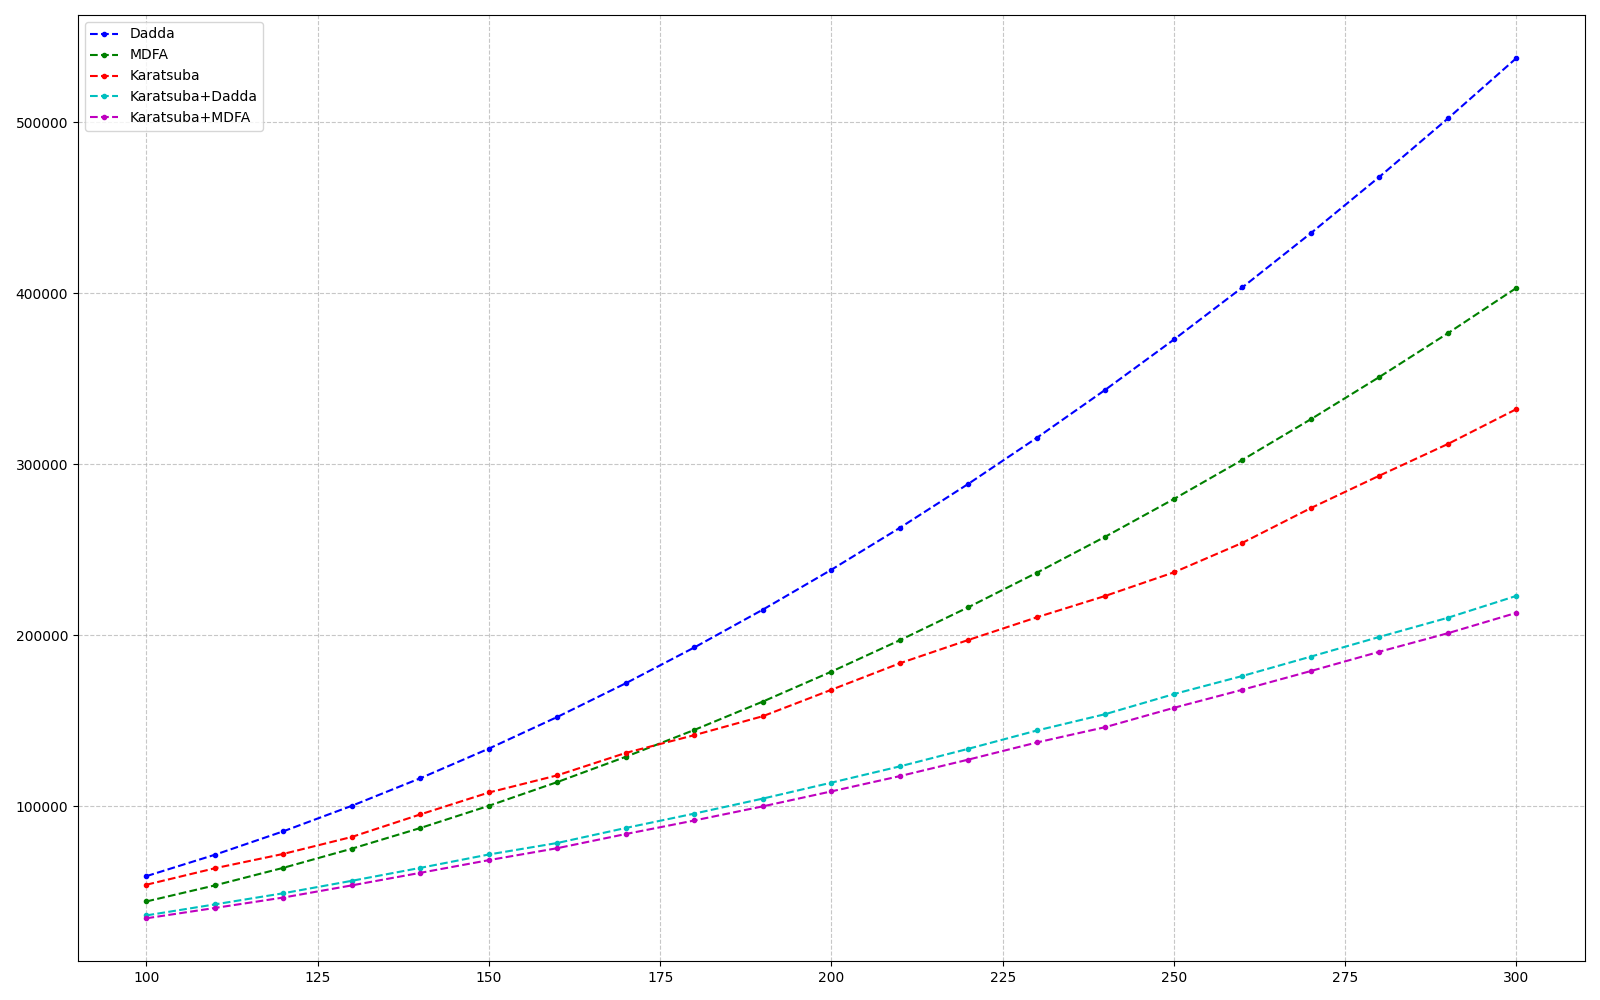
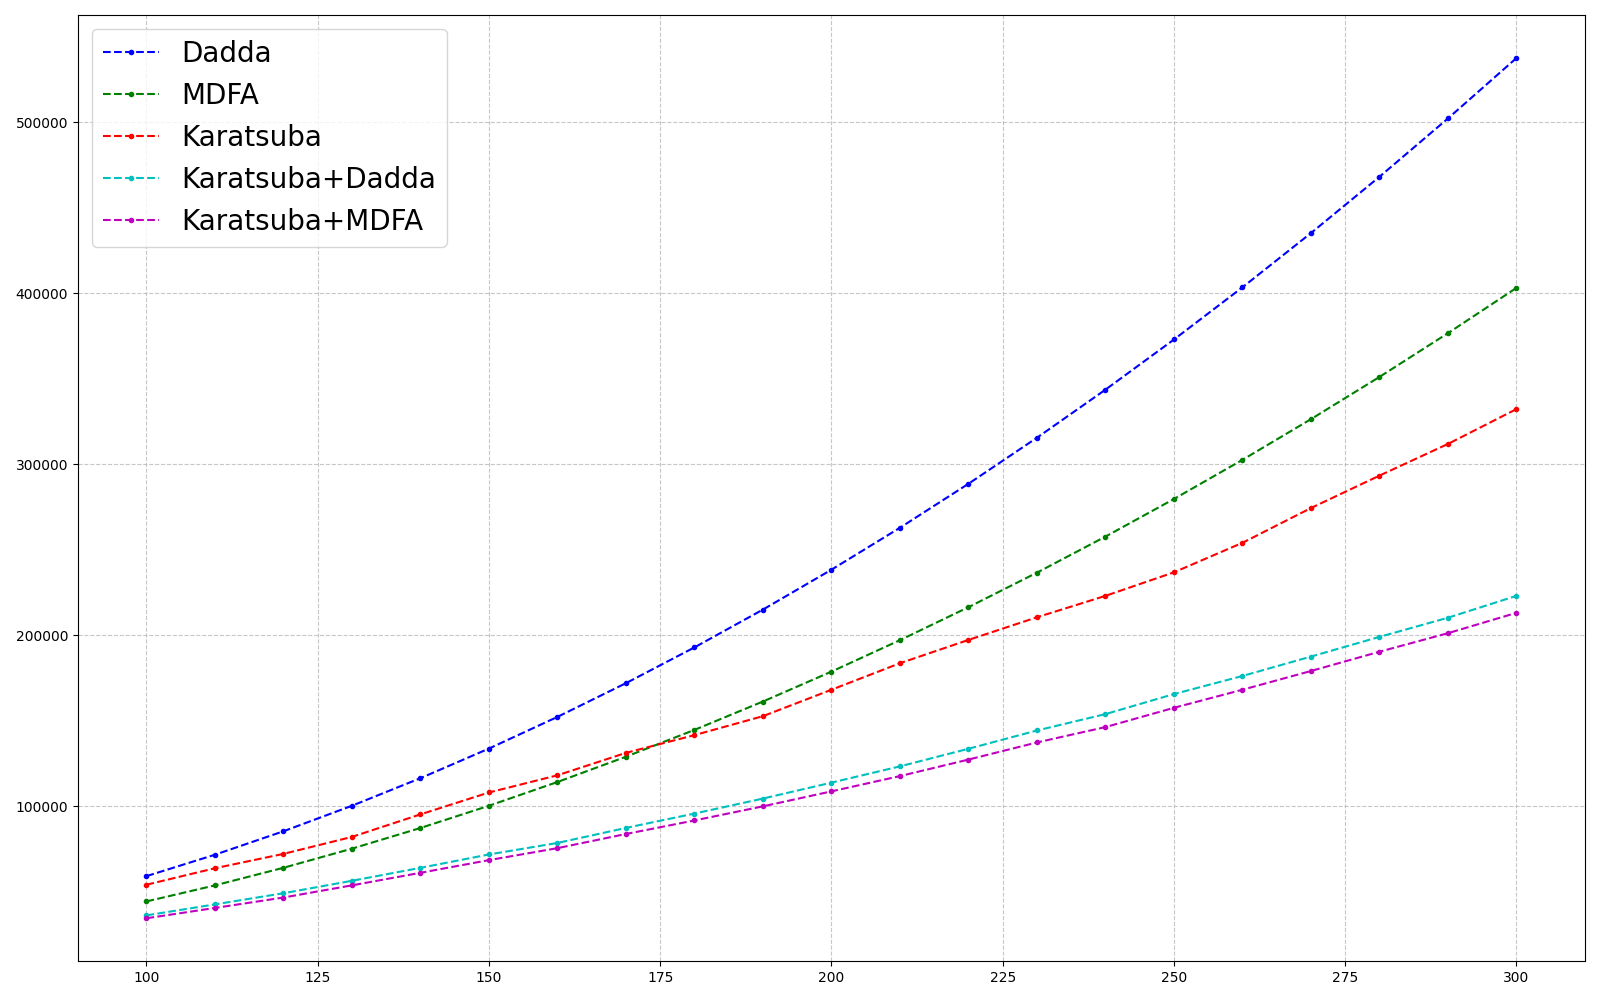
Polish the paper

Changed region(s): [[0.0625, 0.031, 0.2812, 0.248]]

diff --git a/multipliers.tex b/multipliers.tex
@@ -22,6 +22,8 @@
 \DeclareMathOperator{\MULT}{MULT}
 \DeclareMathOperator{\BA}{BA}
 \DeclareMathOperator{\MDFA}{MDFA}
+\DeclareMathOperator{\INC}{INC}
+\DeclareMathOperator{\size}{size}
 
 \usepackage{newfloat}
 \usepackage{listings}
@@ -78,7 +80,7 @@
     of~$n$~bits or~multiplying two $n$-bit integers),
     this leads to~$10\%$ improvement.
 
-    We~complement our theoretical result by~an~open source implementation
+    We~complement our theoretical result by~an~open-source implementation
     of~generators producing circuits for bit addition and multiplication.
     The generators allow one to~produce the corresponding circuits
     in~two lines of~code and to~compare them to~existing designs.
@@ -728,6 +730,7 @@ In~this section, we~prove a~new upper bound $4.5-2m$ for the circuit size
 of~bit addition. For regimes where $m$~is small compared to~$n$, this~is
 better than $5n-3m$ by~about $10\%$. This applies to~$\MULT_n$ and $\SUM_n$.
 \begin{theorem}
+	\label{theorem:main}
     For any vector $s \in \mathbb{Z}_{\ge 0}^n$,
     \[\operatorname{size}(\BA_n^s) \le 4.5n-2m.\]
 \end{theorem}
@@ -792,6 +795,9 @@ See Figure~\ref{figure:shifting} for an~example.
     non-degenerate case where $m \le n$. To~prove the induction step,
     denote by~$l$ the number of~bits on~the least significance layer and consider the following seven cases. (In~fact, the first three cases are special cases of~the last three cases, but we~believe that the presentation is~cleaner when they are stated
     as~separate cases.)
+    In~each of~the seven cases below, we~shift and proceed by~induction.
+    It~is not difficult to~see that we~always get a~non-degenerate significance
+    vector (where $m \le n$). 
 
     \begin{enumerate}
         \item $l=1$. In~this case, we~just shift.
@@ -1188,9 +1194,91 @@ See Figure~\ref{figure:shifting} for an~example.
 \end{proof}
 
 
+\section{Lower Bounds and Limitations}
+The upper bound $\size(\BA_n^s) \le 5n-3m$ holds for any vector~$s$, but 
+in~many scenarios it~is loose. For example, for the function
+\[\ADD_n=\BA_{2n}^{0,\dotsc,n-1,0,\dotsc,n-1},\]
+this upper bounds turns into $5\cdot 2n-3(n+1)=7n-3$,
+whereas $\size(\ADD_n)=5n-3$. Interestingly, the term $3m$ in~the upper bound $5n-3m$ cannot be~increased: for any constant $\alpha > 3$, there exists 
+a~vector~$s$ such that $\size(\BA_n^s) \ge 5n-\alpha m-O(1)$. 
+One example of~such a~vector is~$s=(0,0,1,\dotsc,n-1)$. The corresponding function $\BA_n^s$ adds a~bit to an~$n$-bit number. It~is not difficult to~see that it~can be~computed using $n$~Half Adders (see Figure~\ref{figure:addingbit}), hence its circuit size is~at~most~$2n$. Below, we~show that this straightforward circuit is~optimal (up~to an~additive constant). It~also shows that it~is
+impossible to~improve our upper bound $4.5n-2m$ to $4.5n-\beta m$ for $\beta > 2.5$.
+
+\begin{figure}
+	\begin{center}
+		\begin{tikzpicture}
+			%\draw[help lines] (0, 0) grid (6, 4);
+			\foreach \i in {0, ..., 6} {
+				\node[input] (x\i) at (\i, 3) {$x_{\i}$};
+				\node[gate] (and\i) at (\i, 2.25) {$\land$};
+				\node[gate] (xor\i) at (\i, 1.5) {$\oplus$};
+				\node[input] (y\i) at (\i, 0.74) {$y_{\i}$};
+				\draw[->] (xor\i) -- (y\i);
+				\draw[->] (x\i) -- (and\i);
+				\path (x\i) edge[->, draw, bend right] (xor\i);
+			}
+			\foreach \i in {0,...,5} {
+				\tikzmath{\j=int(\i+1);}
+				\draw[->] (and\i) -- (and\j);
+				\draw[->] (and\i) -- (xor\j);
+			}
+			
+			\node[input] (t) at (-0.75, 2.25) {$t$};
+			\node[input] (y7) at (6.75, 2.25) {$y_7$};
+			\draw[->] (t) -- (and0);
+			\draw[->] (and6) -- (y7);
+		\end{tikzpicture}
+	\end{center}
+	\caption{One can add a~bit~$t$ to a~$7$-bit integer $x_0\dotsb x_7$ (to~get 
+		an~$8$-bit integer $y_0\dotsb y_7$) using $14$~gates. A~straightforward 
+		generalization of~this construction ensures that $\size(\BA_n^{0,0,1,\dotsc, n-1}) \le 2n$.}
+	\label{figure:addingbit}
+\end{figure}
+
+\begin{theorem}
+	\label{theorem:lowerbound}
+	\[\size(\BA_n^{0,0,1,\dotsc,n-1}) \ge 2n-O(1).\]
+\end{theorem}
+\begin{proof}
+	Assume that a~bit to~be added is~equal to~one (clearly, this only makes the function easier to~compute). In~other words,
+	we~consider the \emph{increment} function $\INC_n \colon \{0,1\}^n \to \{0,1\}^{n+1}$. Thus, $\INC_n(x_0, \dotsc, x_{n-1})=(y_0, \dotsc, y_n)$ such that
+	\[1+\sum_{i=0}^{n-1}2^ix_i=\sum_{i=0}^n2^iy_i.\]
+	It~is not difficult to~write down explicit formulas for all output bits of~$\INC_n$. For example, for $n=5$, they are expressed as~follows:
+	\begin{align*}
+		y_0 &= 1 \oplus x_0\\
+		y_1 &= x_0 \oplus x_1\\
+		y_2 &= x_0x_1 \oplus x_2\\
+		y_3 &= x_0x_1x_2 \oplus x_3\\
+		y_4 &= x_0x_1x_2x_3 \oplus x_4\\
+		y_5 &= x_0x_1x_2x_3x_4\\
+	\end{align*}
+	
+	
+	We~prove that $\size(\INC_n) \ge 2n-2$ by~induction on~$n$.
+	The base case $n=1$ is~clear. For the induction step, take an~optimal circuit computing $\INC_n$ and consider its (topologically) first gate~$A(x_i, x_j)$.
+	
+	Now, if~both the variables $x_i$~and~$x_j$ had out-degree one, the whole circuit would depend on~$x_i$ and~$x_j$ through the gate~$A$ only. This would mean that there are two different pairs of~constant $(a_i, a_j), (b_i, b_j) \in \{0,1\}^2$ such that $A(a_i, a_j)=A(b_i, b_j)$. This, in~turn, would mean that the circuit does not distinguish between assignments
+	\[x_i \gets a_i,\, x_j \gets a_j \,\text{ and }\, x_i \gets b_i,\, x_j \gets b_j.\]
+	But such a~circuit cannot compute the function $\INC_n$ as~$\INC_n$ clearly distinguishes all four different assignments to~$x_i$ and~$x_j$.
+	
+	Thus, assume that, say, $x_i$ feeds at~least two gates. Then, assign $x_i \gets 1$ and simplify the circuit. During the simplification, the gates fed by~$x_i$ are eliminated. Also, the resulting circuit computes $\INC_{n-1}$ and hence, by~the induction hypothesis, contains at~least $2(n-1)-2=2n-4$ gates. Thus, the original circuit has size at~least $2+2n-4=2n-2$.
+	
+	To~see that the simplified circuit computes $\INC_{n-1}$, it~is instructive 
+	to~get back to~the previous toy example where $n=5$. Say, we assign $x_2 \gets 1$. Then, the outputs are simplified as~follows:
+	\begin{align*}
+		y_0 &= 1 \oplus x_0\\
+		y_1 &= x_0 \oplus x_1\\
+		y_2 &= x_0x_1 \oplus 1\\
+		y_3 &= x_0x_1 \oplus x_3\\
+		y_4 &= x_0x_1x_3 \oplus x_4\\
+		y_5 &= x_0x_1x_3x_4\\
+	\end{align*}
+	It~is now easy to~see that $(y_0,y_1,y_3,y_4,y_5)=\INC_4(x_0, x_1, x_3, x_4)$.
+\end{proof}
+
 
 \section{Implementation and Experimental Evaluation}
-We~implemented efficient generators of~our new circuits in~the \texttt{Cirbo} framework~\cite{DBLP:journals/corr/abs-2412-14933}. 
+We~implemented efficient generators of~our new circuits in~the \texttt{Cirbo} open-source framework~\cite{DBLP:conf/aaai/AverkovBEGKKKLL25}. 
 To~generate a~circuit computing $\BA_n^s$, one passes the vector~$s$. Listing~\ref{listing:first} shows how to~use the generator
 to~produce an~efficient circuit computing $\SUM_{31}$ in~a~single line of~code.
 When the circuit is~generated, one can use a~wide range of~\texttt{Cirbo} methods to~analyze and manipulate the circuit.
@@ -1273,44 +1361,82 @@ MDFA & 8559 & 19439 & 34719 & 54399 & 78479 & 106959 & 139839 & 177119 & 218799 
 Karatsuba & 11789 & 22982 & 37836 & 54173 & 72209 & 95319 & 118152 & 141653 & 168200 & 197328 & 223093 & 254123 & 293405 & 332314 \\
 Karatsuba, Dadda& 7522 & 15312 & 24770 & 36244 & 49200 & 64046 & 78598 & 95784 & 113870 & 133678 & 153948 & 176246 & 199102 & 223098 \\
 Karatsuba, MDFA& 7198 & 14489 & 23771 & 34556 & 46690 & 61140 & 75556 & 91749 & 108760 & 127358 & 146349 & 168198 & 190427 & 213175 \\
-\bottomrule
+Improvement  & 4.3\%  & 5.4\%  & 4.0\%  & 4.7\%  & 5.1\%  & 4.5\%  & 3.9\%  & 4.2\%  & 4.5\%  & 4.7\%  & 4.9\%  & 4.6\%  & 4.4\%  & 4.4\%\\ \bottomrule
 		\end{tabular}
 	\end{center}
-	\caption{Comparing the size of~circuits for $\MULT_n$. The first multiplier, Dadda, computes the sum of~the partial product using Full Adders and Half Adders. The second one, MDFA, sums~up the partial products using MDFA blocks.
-	The third one, Karatsuba, makes three recursive calls and recurses all the way down to~4-bit numbers. The last two multipliers use Karatsuba algorithm, but switch to~Dadda or~MDFA multipliers when $n$~becomes smaller than~$20$.}
+	\caption{Comparing the size of~circuits for $\MULT_n$. The first multiplier, Dadda, computes the sum of~the partial products using Full Adders and Half Adders. The second one, MDFA, sums~up the partial products using MDFA blocks.
+	The third one, Karatsuba, makes three recursive calls and recurses all the way down to~4-bit numbers. The fourth and fifth multipliers use Karatsuba algorithm, but switch to~Dadda or~MDFA multipliers when $n$~becomes smaller than~$20$. The last row shows size improvement of~the fifth multiplier over the fourth one.}
 	\label{table:multiplication}
 \end{table*}
 
-\begin{figure}
-	\begin{center}
-		\includegraphics[width=\linewidth]{images/plot40_100_10}\\[2mm]
-		\includegraphics[width=\linewidth]{images/plot100_300_10}
-	\end{center}
-	\caption{Comparing the size of~five circuit designs for $\MULT_n$, for $40 \le n \le 100$ (top) and $100 \le n \le 300$ (bottom).}
+%\begin{figure}
+%	\begin{center}
+%		\includegraphics[width=\linewidth]{images/plot40_100_10}\\[2mm]
+%		\includegraphics[width=\linewidth]{images/plot100_300_10}
+%	\end{center}
+%	\caption{Comparing the size of~five circuit designs for $\MULT_n$, for $40 \le n \le 100$ (top) and $100 \le n \le 300$ (bottom).}
+%	\label{figure:multiplication}
+%\end{figure}
+
+\begin{figure*}
+	\includegraphics[width=\linewidth]{images/plot40_300_10}
+	\caption{Comparing the size of~five circuit designs for $\MULT_n$, for $40 \le n \le 300$.}
 	\label{figure:multiplication}
-\end{figure}
+\end{figure*}
 
 
 
 
 \section{Conclusion and Further Directions}
-
 In this paper, we~presented smaller circuits for bit addition.
 In~many practically relevant scenarios, the described circuits
 are about 10\% smaller than the known circuits composed
 out~of Half Adders and Full Adders.
 Also, we~implemented generators that allow one
 to~produce the corresponding circuits using a~single line of~code
-via the \texttt{Cirbo} package~\cite{DBLP:journals/corr/abs-2412-14933}.
+via the \texttt{Cirbo} open-source package~\cite{DBLP:conf/aaai/AverkovBEGKKKLL25}.
 
-The next natural step would~be to~optimize the depth of~the presented circuits.
+\subsection{Better Size Upper Bounds}
+It~would be~interesting to~improve our upper bound $4.5n-2m$ to~$4.5n-2.5m$
+(note that improving the constant~$2$ to~something larger than $2.5$~is provably impossible due to~Theorem~\ref{theorem:lowerbound}).
+For some vectors~$s$, our new circuits (generated by~the method described in~the proof of~Theorem~\ref{theorem:main}) for $\BA_n^s$ have size close to~$4.5n-2m$, so their size is~larger than $4.5n-2.5m$. However, in~all such cases it~is not difficult to~adjust the method of~adding the bits so~that the size of~the resulting circuit is~at~most $4.5n-2.5m$. One such example is 
+\[s=\left(0,0,0,0,1,1,2,2,\dotsc,\frac{n-2}{2}, \frac{n-2}{2}\right).\]
+\begin{center}
+	\begin{tikzpicture}
+			\foreach \x [count=\n from 0] in {2, 1, ..., -6} {
+				\draw[l] (\x * \d, -1) -- (\x * \d, 0.75);
+				\node[below] at (\x * \d, -1) {$\n$};
+			}
+			
+			\foreach \x in {-6, ..., 2} {
+				\node[dot] at (\x * \d, - 2 * \d) {};
+				\node[dot] at (\x * \d, - \d) {};
+			}
+			\node[dot] at (2 * \d, 0) {};
+			\node[dot] at (2 * \d, \d) {};
+	\end{tikzpicture}
+\end{center}
+In~this case, our method first spends $n/2$ gates to~pair the bits and then applies $n/2$ MDFA' blocks. The size of~the resulting circuit is $n/2+6\cdot n/2=3.5n$. This matches the upper bound $4.5n-2m$, since $m=n/2$ in~this case. At~the same time, one
+can compute this function by~a~circuit of~size~??? as~follows: \todo{Misha, please write down}
+
+It~would also be~interesting to~improve our upper bound $4.5n-2m$ to~$\alpha n-O(m)$, for some $\alpha<4.5$. This seems to~be more challenging than just improving $2m$~to~$2.5m$ as~this would most probably require using new building blocks. 
+
+Finally, note also the upper bounds $5n-3m$ and $4.5n-2m$ hold for all vectors~$s$.
+It~would still be~interesting to~improve known upper and lower bounds for specific vectors. Perhaps, one of~the most interesting such functions is~$\SUM_n$ (here, $s=(0,0,\dotsc,0)$). For~it, we~known an~upper bound $4.5n$ (originally proved 
+by~Demenkov et al.~\cite{DBLP:journals/ipl/DemenkovKKY10}; also follows from our Theorem~\ref{theorem:main}) and a~lower bound $2.5n-O(1)$ due to~Stockmeyer~\cite{DBLP:journals/mst/Stockmeyer77}. 
+
+
+
+
+\subsection{Logarithmic Depth}
+It would also~be interesting to~optimize the depth of~the presented circuits.
 Whereas the depth of~our circuits is~linear,
 we~have been interested in~the circuit size mainly and
 have not tried to~optimize the depth. We~believe that it~should be~possible
 to~adjust our circuits to~make the depth logarithmic. It~would be~interesting
 to~analyze this formally and to~answer the following questions:
 \begin{enumerate}
-	\item Is~it possible to~compute $\BA_n^s$ in~depth $O(\log n)$, for any $s \in \mathbb{Z}_{\ge 0}^n$?
+	\item Is~it possible to~compute $\BA_n^s$ in~depth $O(\log n)$, for any~$s$?
 	\item How small can the constant hidden in~$O(\log n)$~be?
 	\item Is~it possible to~optimize both depth and size simultaneously?
 \end{enumerate}

diff --git a/code/table2.py b/code/table2.py
@@ -43,6 +43,7 @@ for n in rng:
     print('&', ckt_simple_karatsuba.gates_number(), end=' ')
 print('\\\\')
 
+kd = []
 print('Karatsuba, Dadda', end='')
 for n in rng:
     input_labels_a = [f"a{i}" for i in range(n)]
@@ -53,9 +54,11 @@ for n in rng:
     for i in input_labels_b:
         ckt_dadda_karatsuba.add_gate(Gate(i, INPUT))
     res = add_dadda_karatsuba(ckt_dadda_karatsuba, input_labels_a, input_labels_b)
+    kd.append(ckt_dadda_karatsuba.gates_number())
     print('&', ckt_dadda_karatsuba.gates_number(), end=' ')
 print('\\\\')
 
+km = []
 print('Karatsuba, MDFA', end='')
 for n in rng:
     input_labels_a = [f"a{i}" for i in range(n)]
@@ -66,7 +69,14 @@ for n in rng:
     for i in input_labels_b:
         ckt_our_karatsuba.add_gate(Gate(i, INPUT))
     res = add_mul_our_karatsuba(ckt_our_karatsuba, input_labels_a, input_labels_b)
+    km.append(ckt_our_karatsuba.gates_number())
     print('&', ckt_our_karatsuba.gates_number(), end=' ')
+print('\\\\')
+
+print('Improvement ', end='')
+for k in range(len(kd)):
+    i = (kd[k] - km[k]) / kd[k] * 100
+    print(f' & {i:.1f}\\%', end=' ')
 print('\\\\')
 
 print('\\bottomrule')

diff --git a/code/plot.py b/code/plot.py
@@ -33,7 +33,7 @@ sys.setrecursionlimit(150000)
 
 
 # r = list(range(40, 101, 10))
-r = list(range(100, 301, 10))
+r = list(range(40, 301, 10))
 dadda_sizes = []
 mdfa_sizes = []
 karatsuba_sizes = []
@@ -109,6 +109,7 @@ plt.plot(r, karatsuba_mdfa_sizes, marker='.', linestyle='--', color='m', label='
 
 
 plt.grid(True, linestyle='--', alpha=0.7)
+# plt.legend(prop={'size': 20})
 plt.legend()
 plt.tight_layout()
 plt.show()
